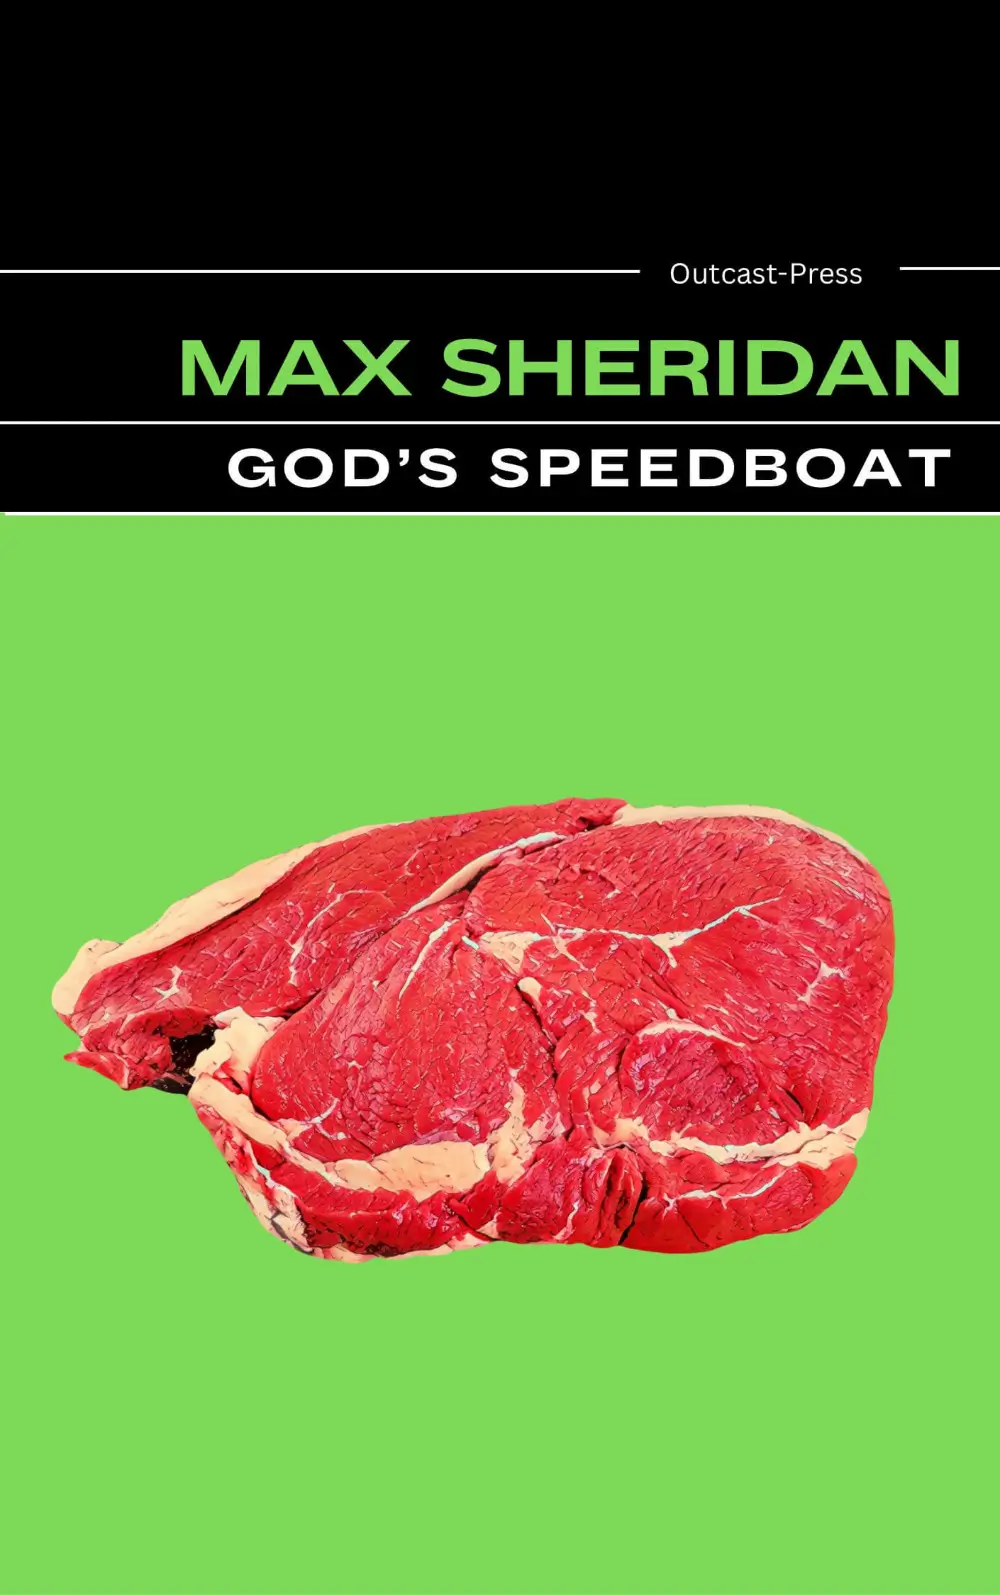
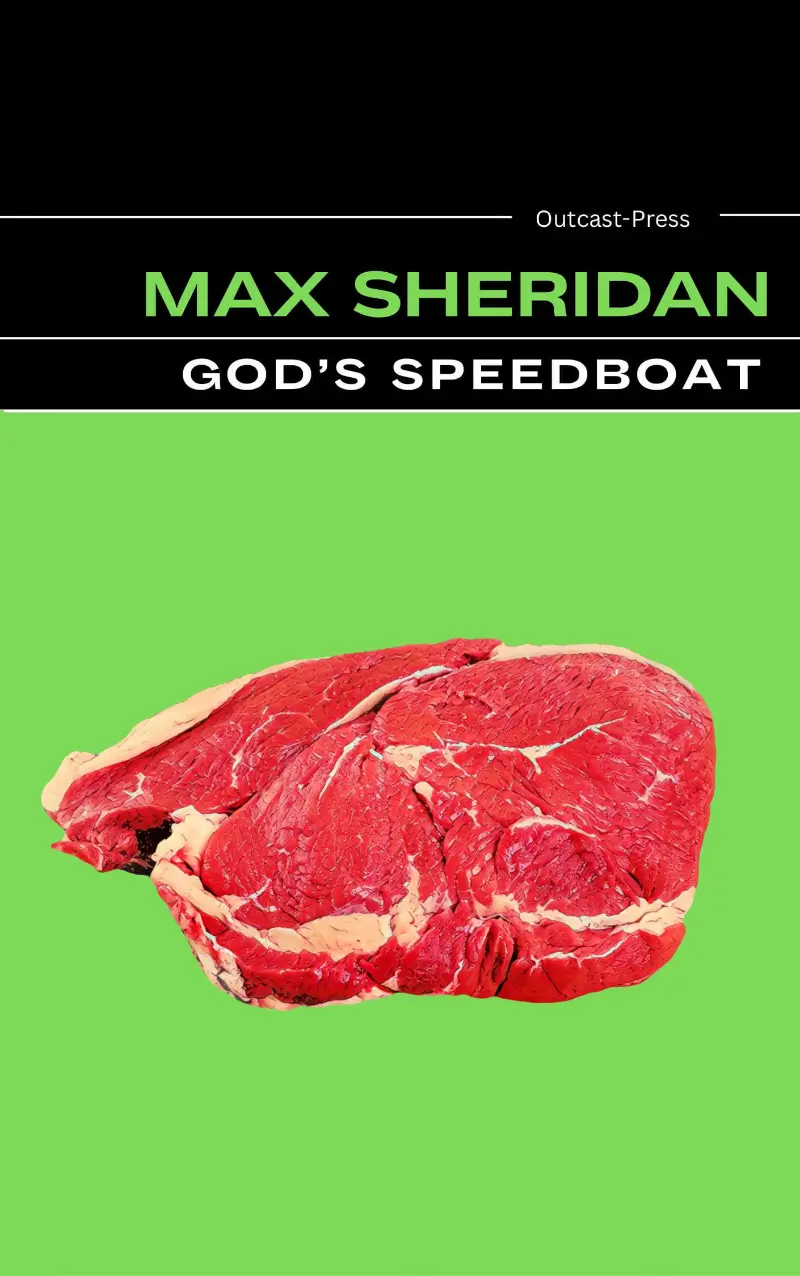
Update contact

Changed region(s): [[0.7188, 0.2139, 0.75, 0.2445], [0.6875, 0.1528, 0.7188, 0.1834]]

diff --git a/contact.css b/contact.css
@@ -95,7 +95,8 @@ nav.links a.active {
     flex: 1;
     display: flex;
     justify-content: center;
-    height: 100%;
+    align-items: center;
+    min-height: 100vh;
 }
 
 p {
@@ -127,7 +128,7 @@ a:hover {
 }
 
 form {
-    padding: 9rem 2rem 0 2rem;
+    padding: 0 2rem 0 2rem;
     width: 100%;
     max-width: 32rem;
 }
@@ -135,6 +136,7 @@ form {
 #hola {
     display: flex;
     justify-content: center;
+    margin-top: 0;
 }
 
 label {
@@ -177,7 +179,7 @@ button:hover {
 
 /*Thanks message*/
 
-.thanks-message {
+form p {
     font-family: 'ABC Diatype', sans-serif, Helvetica, system-ui;
     font-size: clamp(1.031rem,3vw,1.094rem);
     color: #111;

diff --git a/index.html b/index.html
@@ -51,7 +51,7 @@
                     </article>
                     <article>
                         <div class="visual">
-                            <img src="/assets/images/gods_speedboat_is_here.webp" alt="God’s Speedboat book cover" width="1000px" height="1595px">
+                            <img src="/assets/images/gods_speedboat_is_here.webp" alt="God’s Speedboat book cover" width="800px" height="1276px">
                         </div>
                         <div class="text">
                             <h1>God’s Speedboat Is Here</h1>
